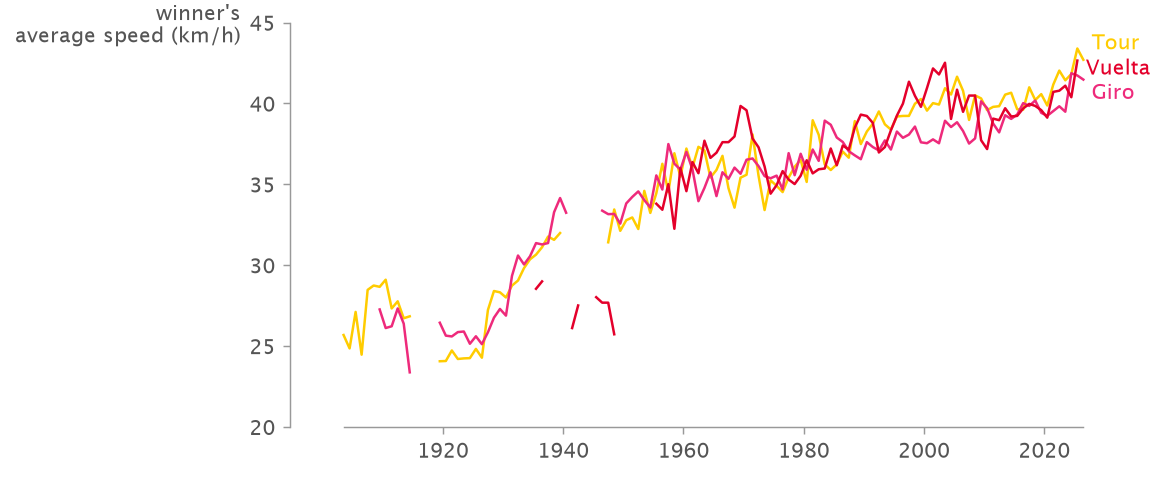
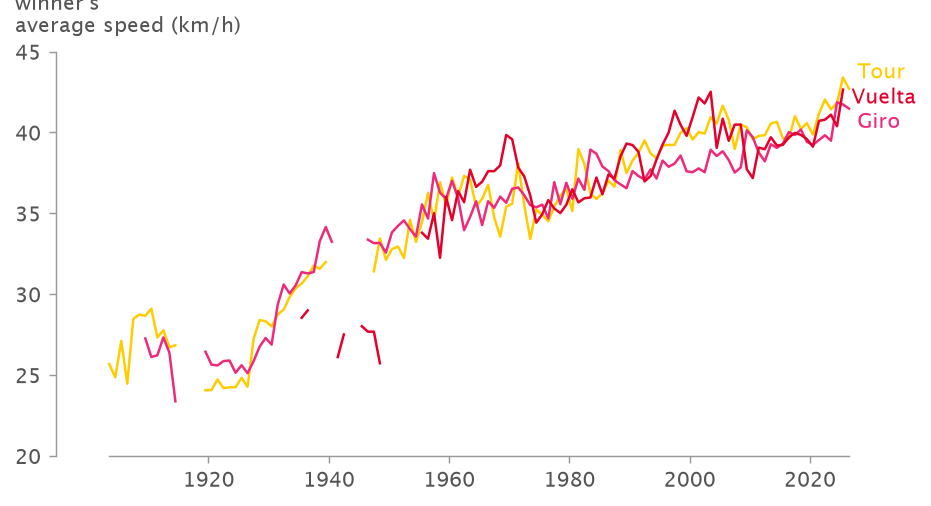
docs: flush the resonance x-label and stack the tour y-label above
Show the two new label placements in the gallery: flush=True on the
Doumont resonance plot's x-label, and place="above" on the grand-tour
speed y-label.

Claude-Session: https://claude.ai/code/session_01EQJb3MjbmiGRT97X4Jb49n

diff --git a/examples/gallery.py b/examples/gallery.py
@@ -97,7 +97,7 @@ def grand_tours() -> None:
     # arrives, and apply detects date-ness at call time.
     vzs.apply(ax, frame=("data", "loose"))
     vzs.line_labels(ax)
-    vzs.ylabel(ax, "winner's\naverage speed (km/h)")
+    vzs.ylabel(ax, "winner's\naverage speed (km/h)", place="above")
     fig.savefig(OUTPUT / "grand_tours.png", dpi=150, bbox_inches="tight")
     plt.close(fig)
 
@@ -198,7 +198,7 @@ def resonance_peak() -> None:
     ax.xaxis.set_major_formatter("{x:g}")
     ax.yaxis.set_major_formatter("{x:.0f}")
     vzs.tick_direction(ax, "in")
-    vzs.xlabel(ax, "frequency (GHz)")
+    vzs.xlabel(ax, "frequency (GHz)", flush=True)
     vzs.ylabel(ax, "output power (mW)", place="above")
     fig.savefig(OUTPUT / "resonance_peak.png", dpi=150, bbox_inches="tight")
     plt.close(fig)
